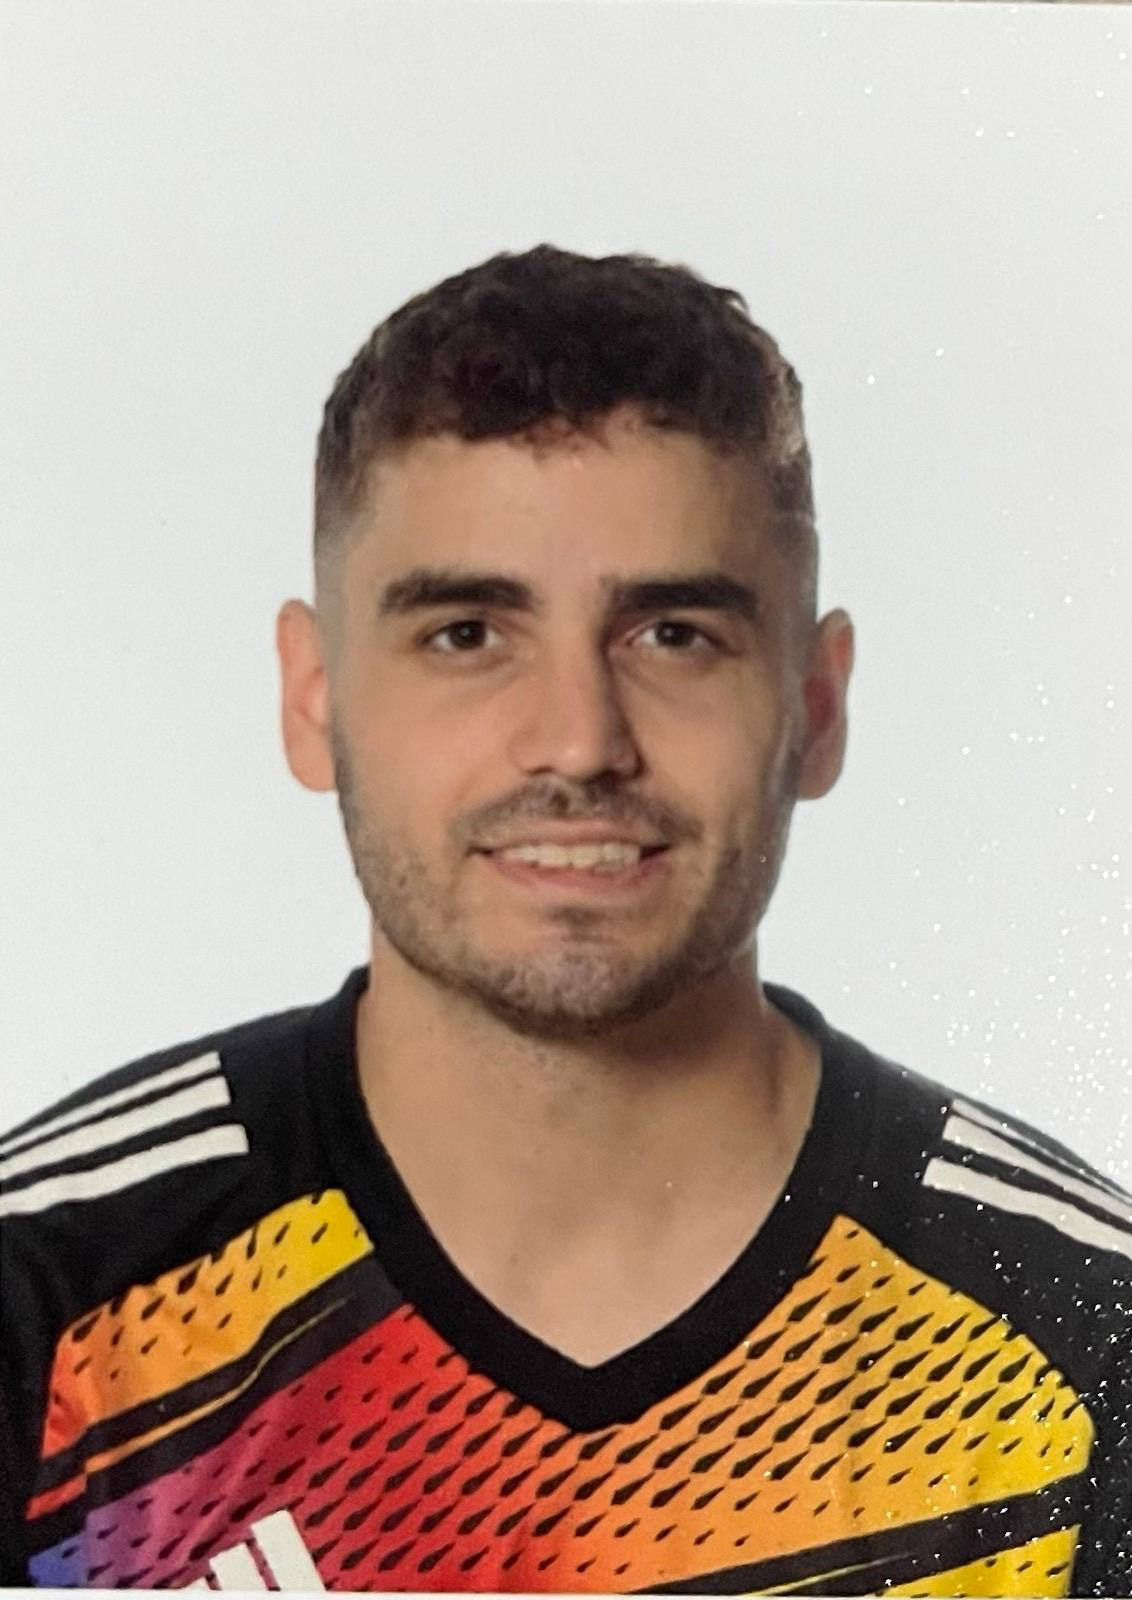
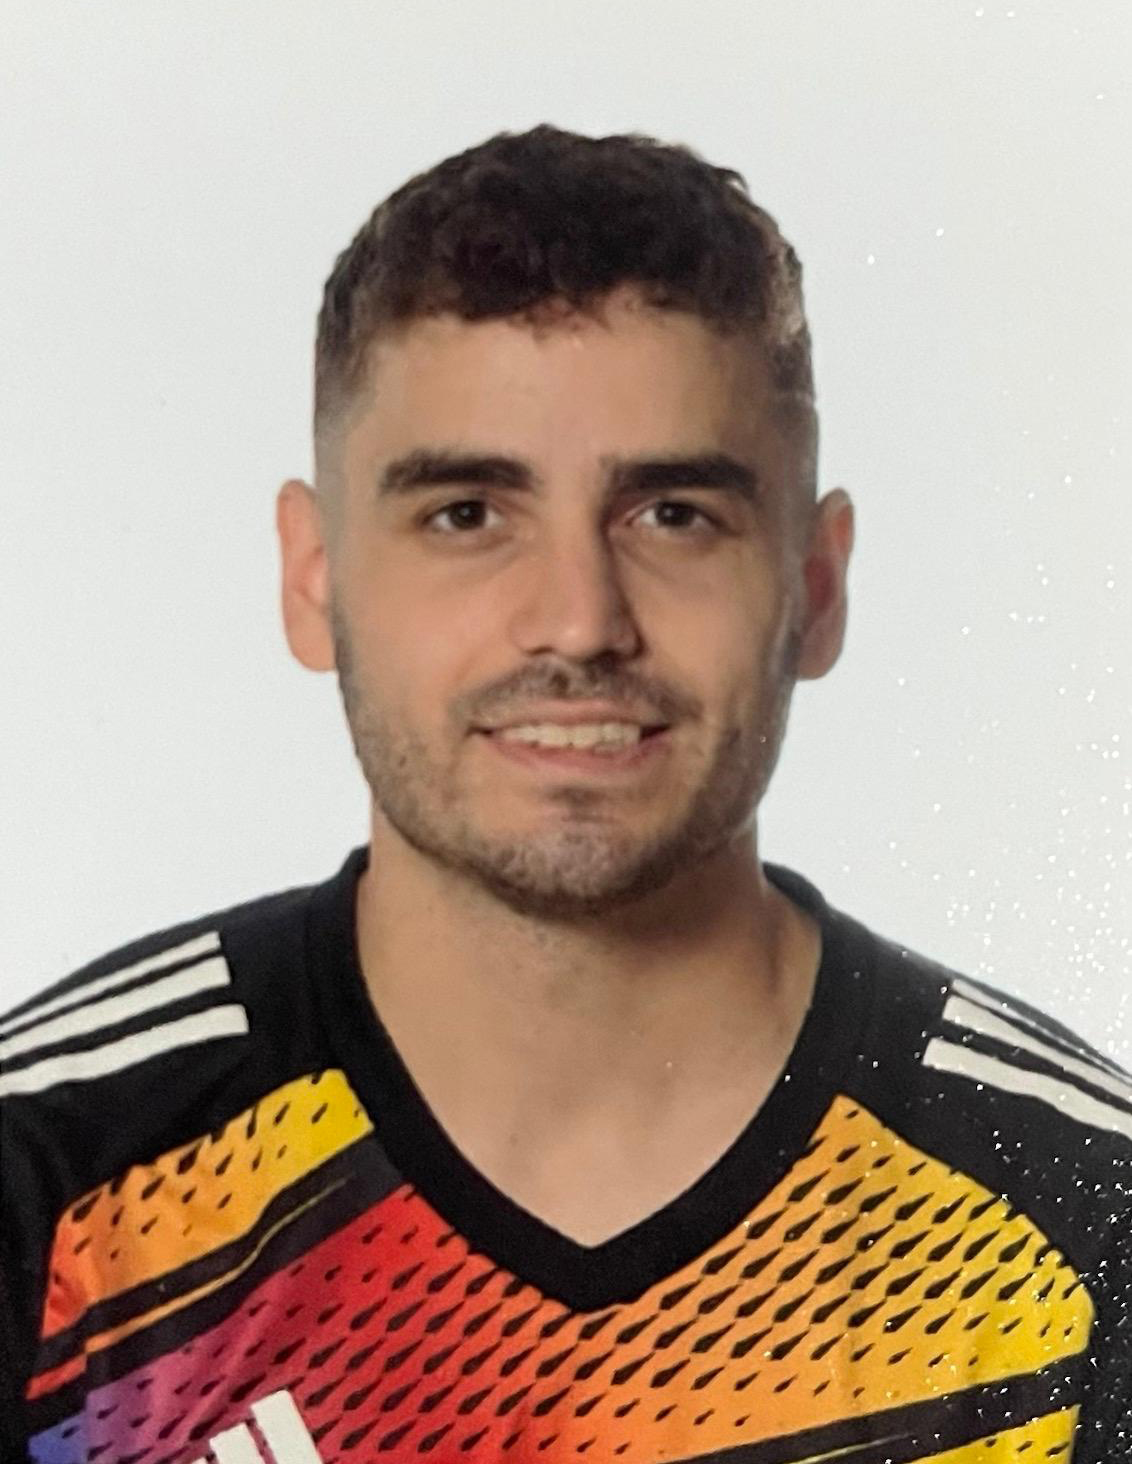
sobre mi added

Changed region(s): [[0.0, 0.0615, 1.0, 1.0], [0.4638, 0.8299, 0.5875, 0.8607]]

diff --git a/src/App.js b/src/App.js
@@ -5,6 +5,7 @@ import WordPullUp from "./components/ui/word-pull-up"; // Import WordPullUp
 import ShineBorder from "./components/ui/shine-border"; // Import ShineBorder
 import { Dock, DockIcon } from "./components/ui/dock"; // Import Dock and DockIcon
 import { FaGithub, FaBriefcase, FaLinkedin, FaFileAlt, FaArrowUp } from 'react-icons/fa'; // Import GitHub, Portfolio, LinkedIn, Document, and Arrow Up icons
+import BlurFade from "./components/ui/blur-fade"; // Import BlurFade
 
 function App() {
   const [showArrow, setShowArrow] = useState(false);
@@ -39,6 +40,19 @@ function App() {
       window.removeEventListener('scroll', handleScroll);
     };
   }, []);
+
+  const calculateAge = (birthDate) => {
+    const today = new Date();
+    const birthDateObj = new Date(birthDate);
+    let age = today.getFullYear() - birthDateObj.getFullYear();
+    const monthDifference = today.getMonth() - birthDateObj.getMonth();
+    if (monthDifference < 0 || (monthDifference === 0 && today.getDate() < birthDateObj.getDate())) {
+      age--;
+    }
+    return age;
+  };
+
+  const age = calculateAge('2001-06-28');
 
   return (
     <div className="App h-full">
@@ -77,62 +91,98 @@ function App() {
           </Dock>
         </div>
       </ShineBorder>
-      <section className="relative min-h-screen flex flex-col justify-center bg-gray-100 overflow-hidden"> {/* Updated background class */}
-        <div className="w-full max-w-6xl mx-auto px-4 md:px-6 py-24">
-          <div className="flex flex-col justify-center divide-y divide-slate-200 [&>*]:py-16">
+
+      {/* New Section */}
+      <section className="relative min-h-screen flex flex-col justify-center bg-gray-100 overflow-hidden m-0 p-4 sm:p-8 md:p-12 lg:p-16 xl:p-20">
+        <div className="w-full max-w-6xl mx-auto px-4 md:px-6 py-8"> {/* Reduced padding */}
+          <div className="flex flex-col lg:flex-row items-center justify-center">
+            <BlurFade inView={true} delay={0.2}>
+              <div className="text-center lg:text-left lg:w-3/4 p-4 lg:p-12 lg:my-4">
+                <p className="text-2xl lg:text-3xl text-black">
+                  Te doy la bienvenida a mi página web personal. <br/> <br/>
+                  Mi nombre es <br/><span className="text-red-500 font-semibold italic">Felipe Alcázar Gómez</span>.<br/><br/> 
+                  Tengo <span className="text-red-500 font-semibold italic">{age} años </span> y soy de <span className="text-red-500 font-semibold italic">Ciudad Real</span>, España.<br/><br/>
+                  Aquí podrás encontrar toda la información sobre mi <span className="text-red-500 font-semibold italic">formación</span> académica,  
+                  <span className="text-red-500 font-semibold italic"> experiencia</span> profesional y 
+                  <span className="text-red-500 font-semibold italic"> proyectos</span> personales. <br/><br/>¡Espero que te guste!
+                </p>
+              </div>
+            </BlurFade>
+            <BlurFade inView={true} delay={0.2}>
+              <div className="w-full max-w-xs lg:max-w-none">
+                <img src={`${process.env.PUBLIC_URL}/profilepic.jpg`} alt="Felipe Alcázar" className="h-auto rounded-lg shadow-lg w-full lg:w-auto" />
+              </div>
+            </BlurFade>
+          </div>
+        </div>
+      </section>
+
+      <section className="relative flex flex-col justify-center bg-gray-100 overflow-hidden m-0 p-4 sm:p-8 md:p-12"> {/* Updated padding for large screens */}
+        <div className="w-full max-w-6xl mx-auto">
+          <div className="flex flex-col justify-center divide-y divide-slate-200">
             <div className="w-full max-w-3xl mx-auto">
               <div className="-my-6">
-                <div className="relative pl-8 sm:pl-32 py-6 group">
-                  <div className="font-medium text-red-500 mb-1 sm:mb-0">🎓 Bachillerato</div>
-                  <div className="flex flex-col sm:flex-row items-start mb-1 group-last:before:hidden before:absolute before:left-2 sm:before:left-0 before:h-full before:px-px before:bg-slate-300 sm:before:ml-[6.5rem] before:self-start before:-translate-x-1/2 before:translate-y-3 after:absolute after:left-2 sm:after:left-0 after:w-2 after:h-2 after:bg-red-600 after:border-4 after:box-content after:border-slate-50 after:rounded-full sm:after:ml-[6.5rem] after:-translate-x-1/2 after:translate-y-1.5">
-                    <time className="sm:absolute left-0 translate-y-0.5 inline-flex items-center justify-center text-xs font-semibold uppercase w-20 h-6 mb-3 sm:mb-0 text-emerald-600 bg-emerald-100 rounded-full">Jul 2019</time>
-                    <div className="text-xl font-bold text-slate-900">Bachillerato en Ciencias Sociales y Humanidades</div>
+                <BlurFade inView={true} delay={0.2}>
+                  <div className="relative pl-8 sm:pl-32 py-6 group">
+                    <div className="font-medium text-red-500 mb-1 sm:mb-0">🎓 Bachillerato</div>
+                    <div className="flex flex-col sm:flex-row items-start mb-1 group-last:before:hidden before:absolute before:left-2 sm:before:left-0 before:h-full before:px-px before:bg-slate-300 sm:before:ml-[6.5rem] before:self-start before:-translate-x-1/2 before:translate-y-3 after:absolute after:left-2 sm:after:left-0 after:w-2 after:h-2 after:bg-red-600 after:border-4 after:box-content after:border-slate-50 after:rounded-full sm:after:ml-[6.5rem] after:-translate-x-1/2 after:translate-y-1.5">
+                      <time className="sm:absolute left-0 translate-y-0.5 inline-flex items-center justify-center text-xs font-semibold uppercase w-20 h-6 mb-3 sm:mb-0 text-emerald-600 bg-emerald-100 rounded-full">Jul 2019</time>
+                      <div className="text-xl font-bold text-slate-900">Bachillerato en Ciencias Sociales y Humanidades</div>
+                    </div>
+                    <div className="text-slate-500 italic">1 de septiembre de 2017 - 1 de julio de 2019</div>
                   </div>
-                  <div className="text-slate-500 italic">1 de septiembre de 2017 - 1 de julio de 2019</div>
-                </div>
+                </BlurFade>
 
-                <div className="relative pl-8 sm:pl-32 py-6 group">
-                  <div className="font-medium text-red-500 mb-1 sm:mb-0">&#x1F1EC;&#x1F1E7; Certificación oficial en Inglés</div>
-                  <div className="flex flex-col sm:flex-row items-start mb-1 group-last:before:hidden before:absolute before:left-2 sm:before:left-0 before:h-full before:px-px before:bg-slate-300 sm:before:ml-[6.5rem] before:self-start before:-translate-x-1/2 before:translate-y-3 after:absolute after:left-2 sm:after:left-0 after:w-2 after:h-2 after:bg-red-600 after:border-4 after:box-content after:border-slate-50 after:rounded-full sm:after:ml-[6.5rem] after:-translate-x-1/2 after:translate-y-1.5">
-                    <time className="sm:absolute left-0 translate-y-0.5 inline-flex items-center justify-center text-xs font-semibold uppercase w-20 h-6 mb-3 sm:mb-0 text-emerald-600 bg-emerald-100 rounded-full">Nov 2020</time>
-                    <div className="text-xl font-bold text-slate-900">Certificación en lengua inglesa ISE III - CEFR Nivel C1</div>
+                <BlurFade inView={true} delay={0.2}>
+                  <div className="relative pl-8 sm:pl-32 py-6 group">
+                    <div className="font-medium text-red-500 mb-1 sm:mb-0">&#x1F1EC;&#x1F1E7; Certificación oficial en Inglés</div>
+                    <div className="flex flex-col sm:flex-row items-start mb-1 group-last:before:hidden before:absolute before:left-2 sm:before:left-0 before:h-full before:px-px before:bg-slate-300 sm:before:ml-[6.5rem] before:self-start before:-translate-x-1/2 before:translate-y-3 after:absolute after:left-2 sm:after:left-0 after:w-2 after:h-2 after:bg-red-600 after:border-4 after:box-content after:border-slate-50 after:rounded-full sm:after:ml-[6.5rem] after:-translate-x-1/2 after:translate-y-1.5">
+                      <time className="sm:absolute left-0 translate-y-0.5 inline-flex items-center justify-center text-xs font-semibold uppercase w-20 h-6 mb-3 sm:mb-0 text-emerald-600 bg-emerald-100 rounded-full">Nov 2020</time>
+                      <div className="text-xl font-bold text-slate-900">Certificación en lengua inglesa ISE III - CEFR Nivel C1</div>
+                    </div>
+                    <div className="text-slate-500 italic">2 de noviembre de 2020</div>
                   </div>
-                  <div className="text-slate-500 italic">2 de noviembre de 2020</div>
-                </div>
+                </BlurFade>
                 
-                <div className="relative pl-8 sm:pl-32 py-6 group">
-                  <div className="font-medium text-red-500 mb-1 sm:mb-0">🖥 Ciclo Formativo</div>
-                  <div className="flex flex-col sm:flex-row items-start mb-1 group-last:before:hidden before:absolute before:left-2 sm:before:left-0 before:h-full before:px-px before:bg-slate-300 sm:before:ml-[6.5rem] before:self-start before:-translate-x-1/2 before:translate-y-3 after:absolute after:left-2 sm:after:left-0 after:w-2 after:h-2 after:bg-red-600 after:border-4 after:box-content after:border-slate-50 after:rounded-full sm:after:ml-[6.5rem] after:-translate-x-1/2 after:translate-y-1.5">
-                    <time className="sm:absolute left-0 translate-y-0.5 inline-flex items-center justify-center text-xs font-semibold uppercase w-20 h-6 mb-3 sm:mb-0 text-emerald-600 bg-emerald-100 rounded-full">Jun 2021</time>
-                    <div className="text-xl font-bold text-slate-900">Ciclo Formativo de Grado Superior en Desarrollo de Aplicaciones Multiplataforma</div>
+                <BlurFade inView={true} delay={0.2}>
+                  <div className="relative pl-8 sm:pl-32 py-6 group">
+                    <div className="font-medium text-red-500 mb-1 sm:mb-0">🖥 Ciclo Formativo</div>
+                    <div className="flex flex-col sm:flex-row items-start mb-1 group-last:before:hidden before:absolute before:left-2 sm:before:left-0 before:h-full before:px-px before:bg-slate-300 sm:before:ml-[6.5rem] before:self-start before:-translate-x-1/2 before:translate-y-3 after:absolute after:left-2 sm:after:left-0 after:w-2 after:h-2 after:bg-red-600 after:border-4 after:box-content after:border-slate-50 after:rounded-full sm:after:ml-[6.5rem] after:-translate-x-1/2 after:translate-y-1.5">
+                      <time className="sm:absolute left-0 translate-y-0.5 inline-flex items-center justify-center text-xs font-semibold uppercase w-20 h-6 mb-3 sm:mb-0 text-emerald-600 bg-emerald-100 rounded-full">Jun 2021</time>
+                      <div className="text-xl font-bold text-slate-900">Ciclo Formativo de Grado Superior en Desarrollo de Aplicaciones Multiplataforma</div>
+                    </div>
+                    <div className="text-slate-500 italic">1 de septiembre de 2019 - 1 de junio de 2021</div>
                   </div>
-                  <div className="text-slate-500 italic">1 de septiembre de 2019 - 1 de junio de 2021</div>
-                </div>
+                </BlurFade>
                 
-                <div className="relative pl-8 sm:pl-32 py-6 group">
-                  <div className="font-medium text-red-500 mb-1 sm:mb-0">💼 Prácticas Profesionales</div>
-                  <div className="flex flex-col sm:flex-row items-start mb-1 group-last:before:hidden before:absolute before:left-2 sm:before:left-0 before:h-full before:px-px before:bg-slate-300 sm:before:ml-[6.5rem] before:self-start before:-translate-x-1/2 before:translate-y-3 after:absolute after:left-2 sm:after:left-0 after:w-2 after:h-2 after:bg-red-600 after:border-4 after:box-content after:border-slate-50 after:rounded-full sm:after:ml-[6.5rem] after:-translate-x-1/2 after:translate-y-1.5">
-                    <time className="sm:absolute left-0 translate-y-0.5 inline-flex items-center justify-center text-xs font-semibold uppercase w-20 h-6 mb-3 sm:mb-0 text-emerald-600 bg-emerald-100 rounded-full">Jun 2021</time>
-                    <div className="text-xl font-bold text-slate-900">Prácticas profesionales en DIMAX Soluciones Integrales S.L.</div>
+                <BlurFade inView={true} delay={0.2}>
+                  <div className="relative pl-8 sm:pl-32 py-6 group">
+                    <div className="font-medium text-red-500 mb-1 sm:mb-0">💼 Prácticas Profesionales</div>
+                    <div className="flex flex-col sm:flex-row items-start mb-1 group-last:before:hidden before:absolute before:left-2 sm:before:left-0 before:h-full before:px-px before:bg-slate-300 sm:before:ml-[6.5rem] before:self-start before:-translate-x-1/2 before:translate-y-3 after:absolute after:left-2 sm:after:left-0 after:w-2 after:h-2 after:bg-red-600 after:border-4 after:box-content after:border-slate-50 after:rounded-full sm:after:ml-[6.5rem] after:-translate-x-1/2 after:translate-y-1.5">
+                      <time className="sm:absolute left-0 translate-y-0.5 inline-flex items-center justify-center text-xs font-semibold uppercase w-20 h-6 mb-3 sm:mb-0 text-emerald-600 bg-emerald-100 rounded-full">Jun 2021</time>
+                      <div className="text-xl font-bold text-slate-900">Prácticas profesionales en DIMAX Soluciones Integrales S.L.</div>
+                    </div>
+                    <div className="text-slate-500 italic">Prácticas profesionales en DIMAX Soluciones Integrales S.L., Ciudad Real, España. Participación en el desarrollo de páginas web con WordPress, programación IoT en C++ con placas Arduino, y estudio de investigación de software ERP.</div>
+                    <div className="text-slate-500 italic">7 de abril de 2021 - 18 de junio de 2021</div>
                   </div>
-                  <div className="text-slate-500 italic">Prácticas profesionales en DIMAX Soluciones Integrales S.L., Ciudad Real, España. Participación en el desarrollo de páginas web con WordPress, programación IoT en C++ con placas Arduino, y estudio de investigación de software ERP.</div>
-                  <div className="text-slate-500 italic">7 de abril de 2021 - 18 de junio de 2021</div>
-                </div>
+                </BlurFade>
                 
-                <div className="relative pl-8 sm:pl-32 py-6 group">
-                  <div className="font-medium text-red-500 mb-1 sm:mb-0">🧑💻 Grado en Ingeniería Informática</div>
-                  <div className="flex flex-col sm:flex-row items-start mb-1 group-last:before:hidden before:absolute before:left-2 sm:before:left-0 before:h-full before:px-px before:bg-slate-300 sm:before:ml-[6.5rem] before:self-start before:-translate-x-1/2 before:translate-y-3 after:absolute after:left-2 sm:after:left-0 after:w-2 after:h-2 after:bg-red-600 after:border-4 after:box-content after:border-slate-50 after:rounded-full sm:after:ml-[6.5rem] after:-translate-x-1/2 after:translate-y-1.5">
-                    <time className="sm:absolute left-0 translate-y-0.5 inline-flex items-center justify-center text-xs font-semibold uppercase w-20 h-6 mb-3 sm:mb-0 text-emerald-600 bg-emerald-100 rounded-full">HOY</time>
-                    <div className="text-xl font-bold text-slate-900">Grado en Ingeniería Informática por la Escuela Superior de Informática de UCLM - Cursando 4º curso </div>
+                <BlurFade inView={true} delay={0.2}>
+                  <div className="relative pl-8 sm:pl-32 py-6 group">
+                    <div className="font-medium text-red-500 mb-1 sm:mb-0">🧑💻 Grado en Ingeniería Informática</div>
+                    <div className="flex flex-col sm:flex-row items-start mb-1 group-last:before:hidden before:absolute before:left-2 sm:before:left-0 before:h-full before:px-px before:bg-slate-300 sm:before:ml-[6.5rem] before:self-start before:-translate-x-1/2 before:translate-y-3 after:absolute after:left-2 sm:after:left-0 after:w-2 after:h-2 after:bg-red-600 after:border-4 after:box-content after:border-slate-50 after:rounded-full sm:after:ml-[6.5rem] after:-translate-x-1/2 after:translate-y-1.5">
+                      <time className="sm:absolute left-0 translate-y-0.5 inline-flex items-center justify-center text-xs font-semibold uppercase w-20 h-6 mb-3 sm:mb-0 text-emerald-600 bg-emerald-100 rounded-full">HOY</time>
+                      <div className="text-xl font-bold text-slate-900">Grado en Ingeniería Informática por la Escuela Superior de Informática de UCLM - Cursando 4º curso </div>
+                    </div>
+                    <div className="text-slate-500 italic">1 de septiembre de 2021 - Actualidad</div>
                   </div>
-                  <div className="text-slate-500 italic">1 de septiembre de 2021 - Actualidad</div>
-                </div>
+                </BlurFade>
               </div>                    
             </div>
           </div>
         </div>
       </section>
-      <section id="next-section" className="min-h-screen flex justify-center items-center bg-gray-100">
+      <section id="next-section" className="min-h-screen flex justify-center items-center bg-gray-100 m-0 p-4 sm:p-8 md:p-12 lg:p-16 xl:p-20">
         <h2 className="text-4xl text-black">More Content Here</h2>
       </section>
     </div>

diff --git a/src/components/ui/blur-fade.tsx b/src/components/ui/blur-fade.tsx
@@ -1,0 +1,67 @@
+"use client";
+
+import React, { useRef } from "react";
+import {
+  AnimatePresence,
+  motion,
+  useInView,
+  UseInViewOptions,
+  Variants,
+} from "framer-motion";
+
+type MarginType = UseInViewOptions["margin"];
+
+interface BlurFadeProps {
+  children: React.ReactNode;
+  className?: string;
+  variant?: {
+    hidden: { y: number };
+    visible: { y: number };
+  };
+  duration?: number;
+  delay?: number;
+  yOffset?: number;
+  inView?: boolean;
+  inViewMargin?: MarginType;
+  blur?: string;
+}
+
+export default function BlurFade({
+  children,
+  className,
+  variant,
+  duration = 0.4,
+  delay = 0,
+  yOffset = 6,
+  inView = false,
+  inViewMargin = "-50px",
+  blur = "6px",
+}: BlurFadeProps) {
+  const ref = useRef(null);
+  const inViewResult = useInView(ref, { once: true, margin: inViewMargin });
+  const isInView = !inView || inViewResult;
+  const defaultVariants: Variants = {
+    hidden: { y: yOffset, opacity: 0, filter: `blur(${blur})` },
+    visible: { y: -yOffset, opacity: 1, filter: `blur(0px)` },
+  };
+  const combinedVariants = variant || defaultVariants;
+  return (
+    <AnimatePresence>
+      <motion.div
+        ref={ref}
+        initial="hidden"
+        animate={isInView ? "visible" : "hidden"}
+        exit="hidden"
+        variants={combinedVariants}
+        transition={{
+          delay: 0.04 + delay,
+          duration,
+          ease: "easeOut",
+        }}
+        className={className}
+      >
+        {children}
+      </motion.div>
+    </AnimatePresence>
+  );
+}

diff --git a/src/components/ui/dock.tsx b/src/components/ui/dock.tsx
@@ -126,7 +126,13 @@ const DockIcon = ({
       >
         {children}
       </motion.div>
-      <ReactTooltip id={title} place="top" /> {/* Tooltip configuration with rounded corners */}
+      <ReactTooltip 
+        id={title} 
+        place="top" 
+        className="rounded-full" // Use rounded-full for fully rounded corners
+        noArrow // Add noArrow prop to remove the arrow
+        style={{ borderRadius: '16px' }} // Add custom border-radius for more rounded corners
+      />
     </>
   );
 };
